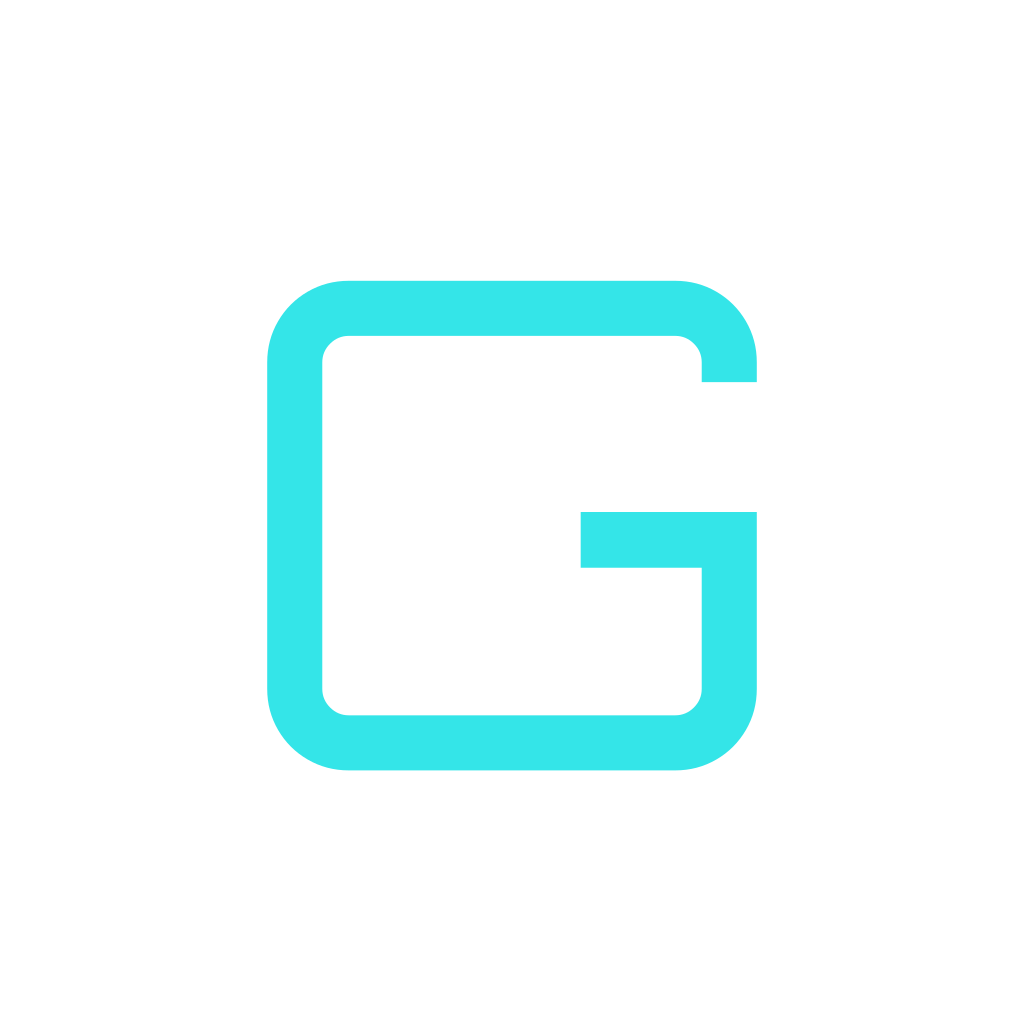
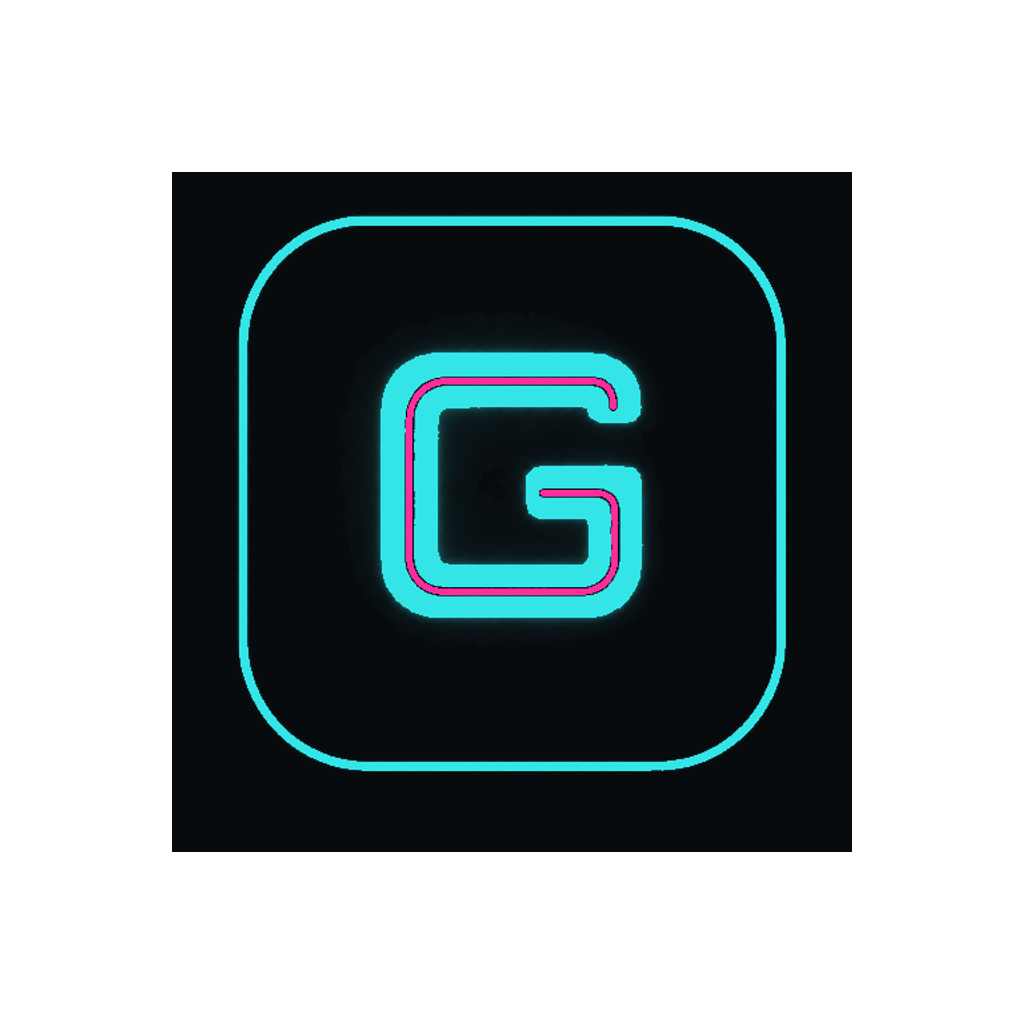
Adopt traced compact brand mark (#23)

diff --git a/apps/admin/app/globals.css b/apps/admin/app/globals.css
@@ -129,28 +129,19 @@ h3 {
 }
 
 .brand-mark {
-  display: grid;
+  display: block;
   width: 42px;
   height: 42px;
   flex: 0 0 42px;
-  place-items: center;
-  border: 1px solid rgba(52, 229, 232, 0.58);
   border-radius: 10px;
-  background:
-    radial-gradient(circle at 32% 24%, rgba(52, 229, 232, 0.16), transparent 58%),
-    rgba(5, 9, 12, 0.76);
-  box-shadow:
-    inset 0 0 12px rgba(52, 229, 232, 0.06),
-    0 0 20px rgba(52, 229, 232, 0.13);
+  overflow: hidden;
 }
 
-.brand-mark-letter {
-  color: var(--brand-cyan);
-  font-family: var(--display);
-  font-size: 27px;
-  font-weight: 700;
-  line-height: 1;
-  text-shadow: 0 0 6px rgba(52, 229, 232, 0.48);
+.brand-mark img {
+  display: block;
+  width: 100%;
+  height: 100%;
+  object-fit: cover;
 }
 
 .brand-wordmark,

diff --git a/packages/brand/src/index.js b/packages/brand/src/index.js
@@ -1,7 +1,8 @@
 export { brandColors, brandFonts } from './tokens.js';
 
 export const brandAssets = Object.freeze({
-  mark: 'assets/logos/mark.svg',
+  mark: 'assets/logos/mark.png',
+  markVector: 'assets/logos/mark.svg',
   wordmark: 'assets/logos/wordmark.svg',
   orbitronBold: 'assets/fonts/Orbitron-Bold.ttf',
   rajdhaniMedium: 'assets/fonts/Rajdhani-Medium.ttf',

diff --git a/packages/brand/src/index.d.ts b/packages/brand/src/index.d.ts
@@ -18,7 +18,8 @@ export declare const brandFonts: Readonly<{
 }>;
 
 export declare const brandAssets: Readonly<{
-  mark: 'assets/logos/mark.svg';
+  mark: 'assets/logos/mark.png';
+  markVector: 'assets/logos/mark.svg';
   wordmark: 'assets/logos/wordmark.svg';
   orbitronBold: 'assets/fonts/Orbitron-Bold.ttf';
   rajdhaniMedium: 'assets/fonts/Rajdhani-Medium.ttf';

diff --git a/apps/landing/app/manifest.ts b/apps/landing/app/manifest.ts
@@ -13,9 +13,9 @@ export default function manifest(): MetadataRoute.Manifest {
     display: "standalone",
     icons: [
       {
-        sizes: "any",
-        src: "/mark.svg",
-        type: "image/svg+xml",
+        sizes: "510x510",
+        src: "/mark.png",
+        type: "image/png",
       },
     ],
     name: "GoGymGo",

diff --git a/apps/admin/app/admin-dashboard.tsx b/apps/admin/app/admin-dashboard.tsx
@@ -117,9 +117,7 @@ const emptyPilotData: PilotData = {
 function BrandMark() {
   return (
     <span aria-label="GoGymGo" className="brand-mark" role="img">
-      <span aria-hidden="true" className="brand-mark-letter">
-        G
-      </span>
+      <img alt="" aria-hidden="true" src="/brand-mark.png" />
     </span>
   );
 }

diff --git a/apps/landing/app/page.tsx b/apps/landing/app/page.tsx
@@ -74,7 +74,7 @@ const structuredData = [
   {
     "@context": "https://schema.org",
     "@type": "Organization",
-    logo: "https://gogymgo.com/mark.svg",
+    logo: "https://gogymgo.com/mark.png",
     name: "GoGymGo",
     url: "https://gogymgo.com",
   },

diff --git a/apps/landing/app/layout.tsx b/apps/landing/app/layout.tsx
@@ -73,7 +73,7 @@ export async function generateMetadata(): Promise<Metadata> {
       canonical: "/",
     },
     icons: {
-      icon: "/mark.svg",
+      icon: "/mark.png",
     },
     manifest: "/manifest.webmanifest",
   };

diff --git a/packages/brand/README.md b/packages/brand/README.md
@@ -1,3 +1,14 @@
 # @gogymgo/brand
 
 Canonical GoGymGo colours, fonts, logo sources and asset names. Application-specific components stay in their owning application; web/public font copies are deployment assets generated or synchronized from this package.
+
+## Logo system
+
+- `assets/logos/mark.png` is the approved small-format source used for app icons,
+  favicons, compact navigation marks and other square placements.
+- `assets/logos/mark.svg` is its editable vector companion. Both use a cyan G
+  traced from end to end with the canonical pink token.
+- `assets/logos/wordmark.svg` is the larger `GO GYM GO` wordmark. Do not replace
+  wordmark placements with the compact mark.
+- Generate application derivatives with `npm run brand:generate --workspace
+  @gogymgo/admin`; do not recolour copied assets locally.
